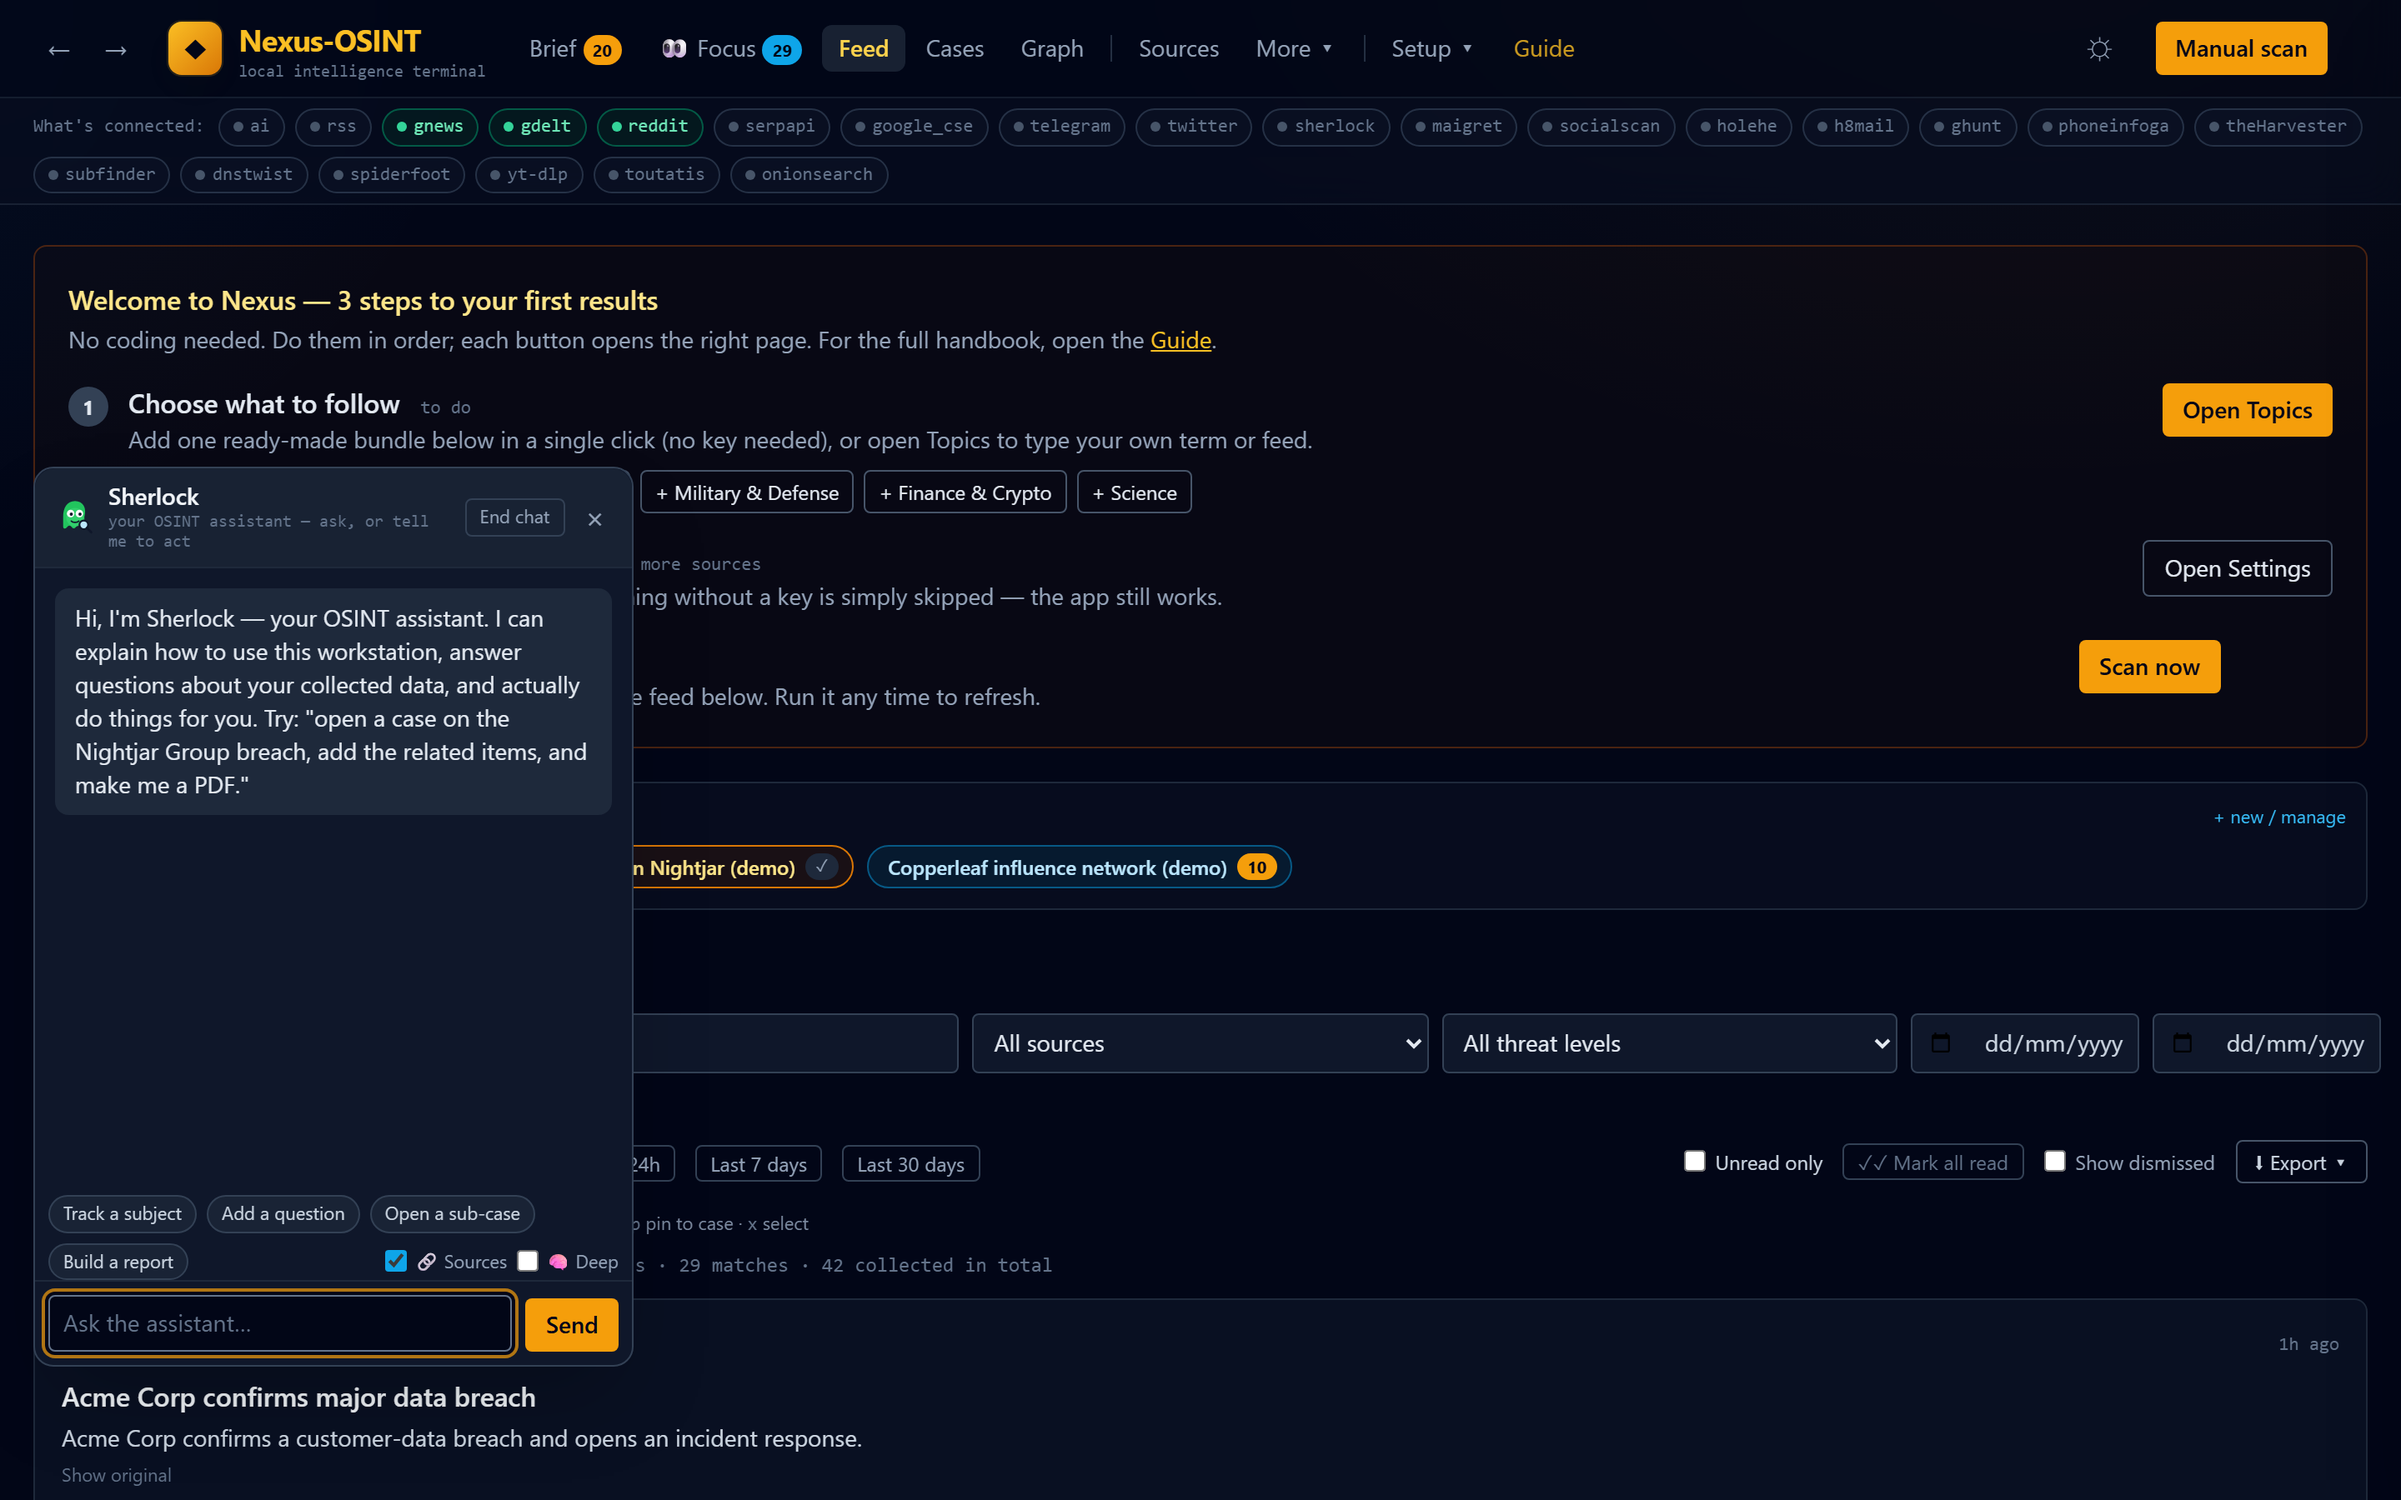
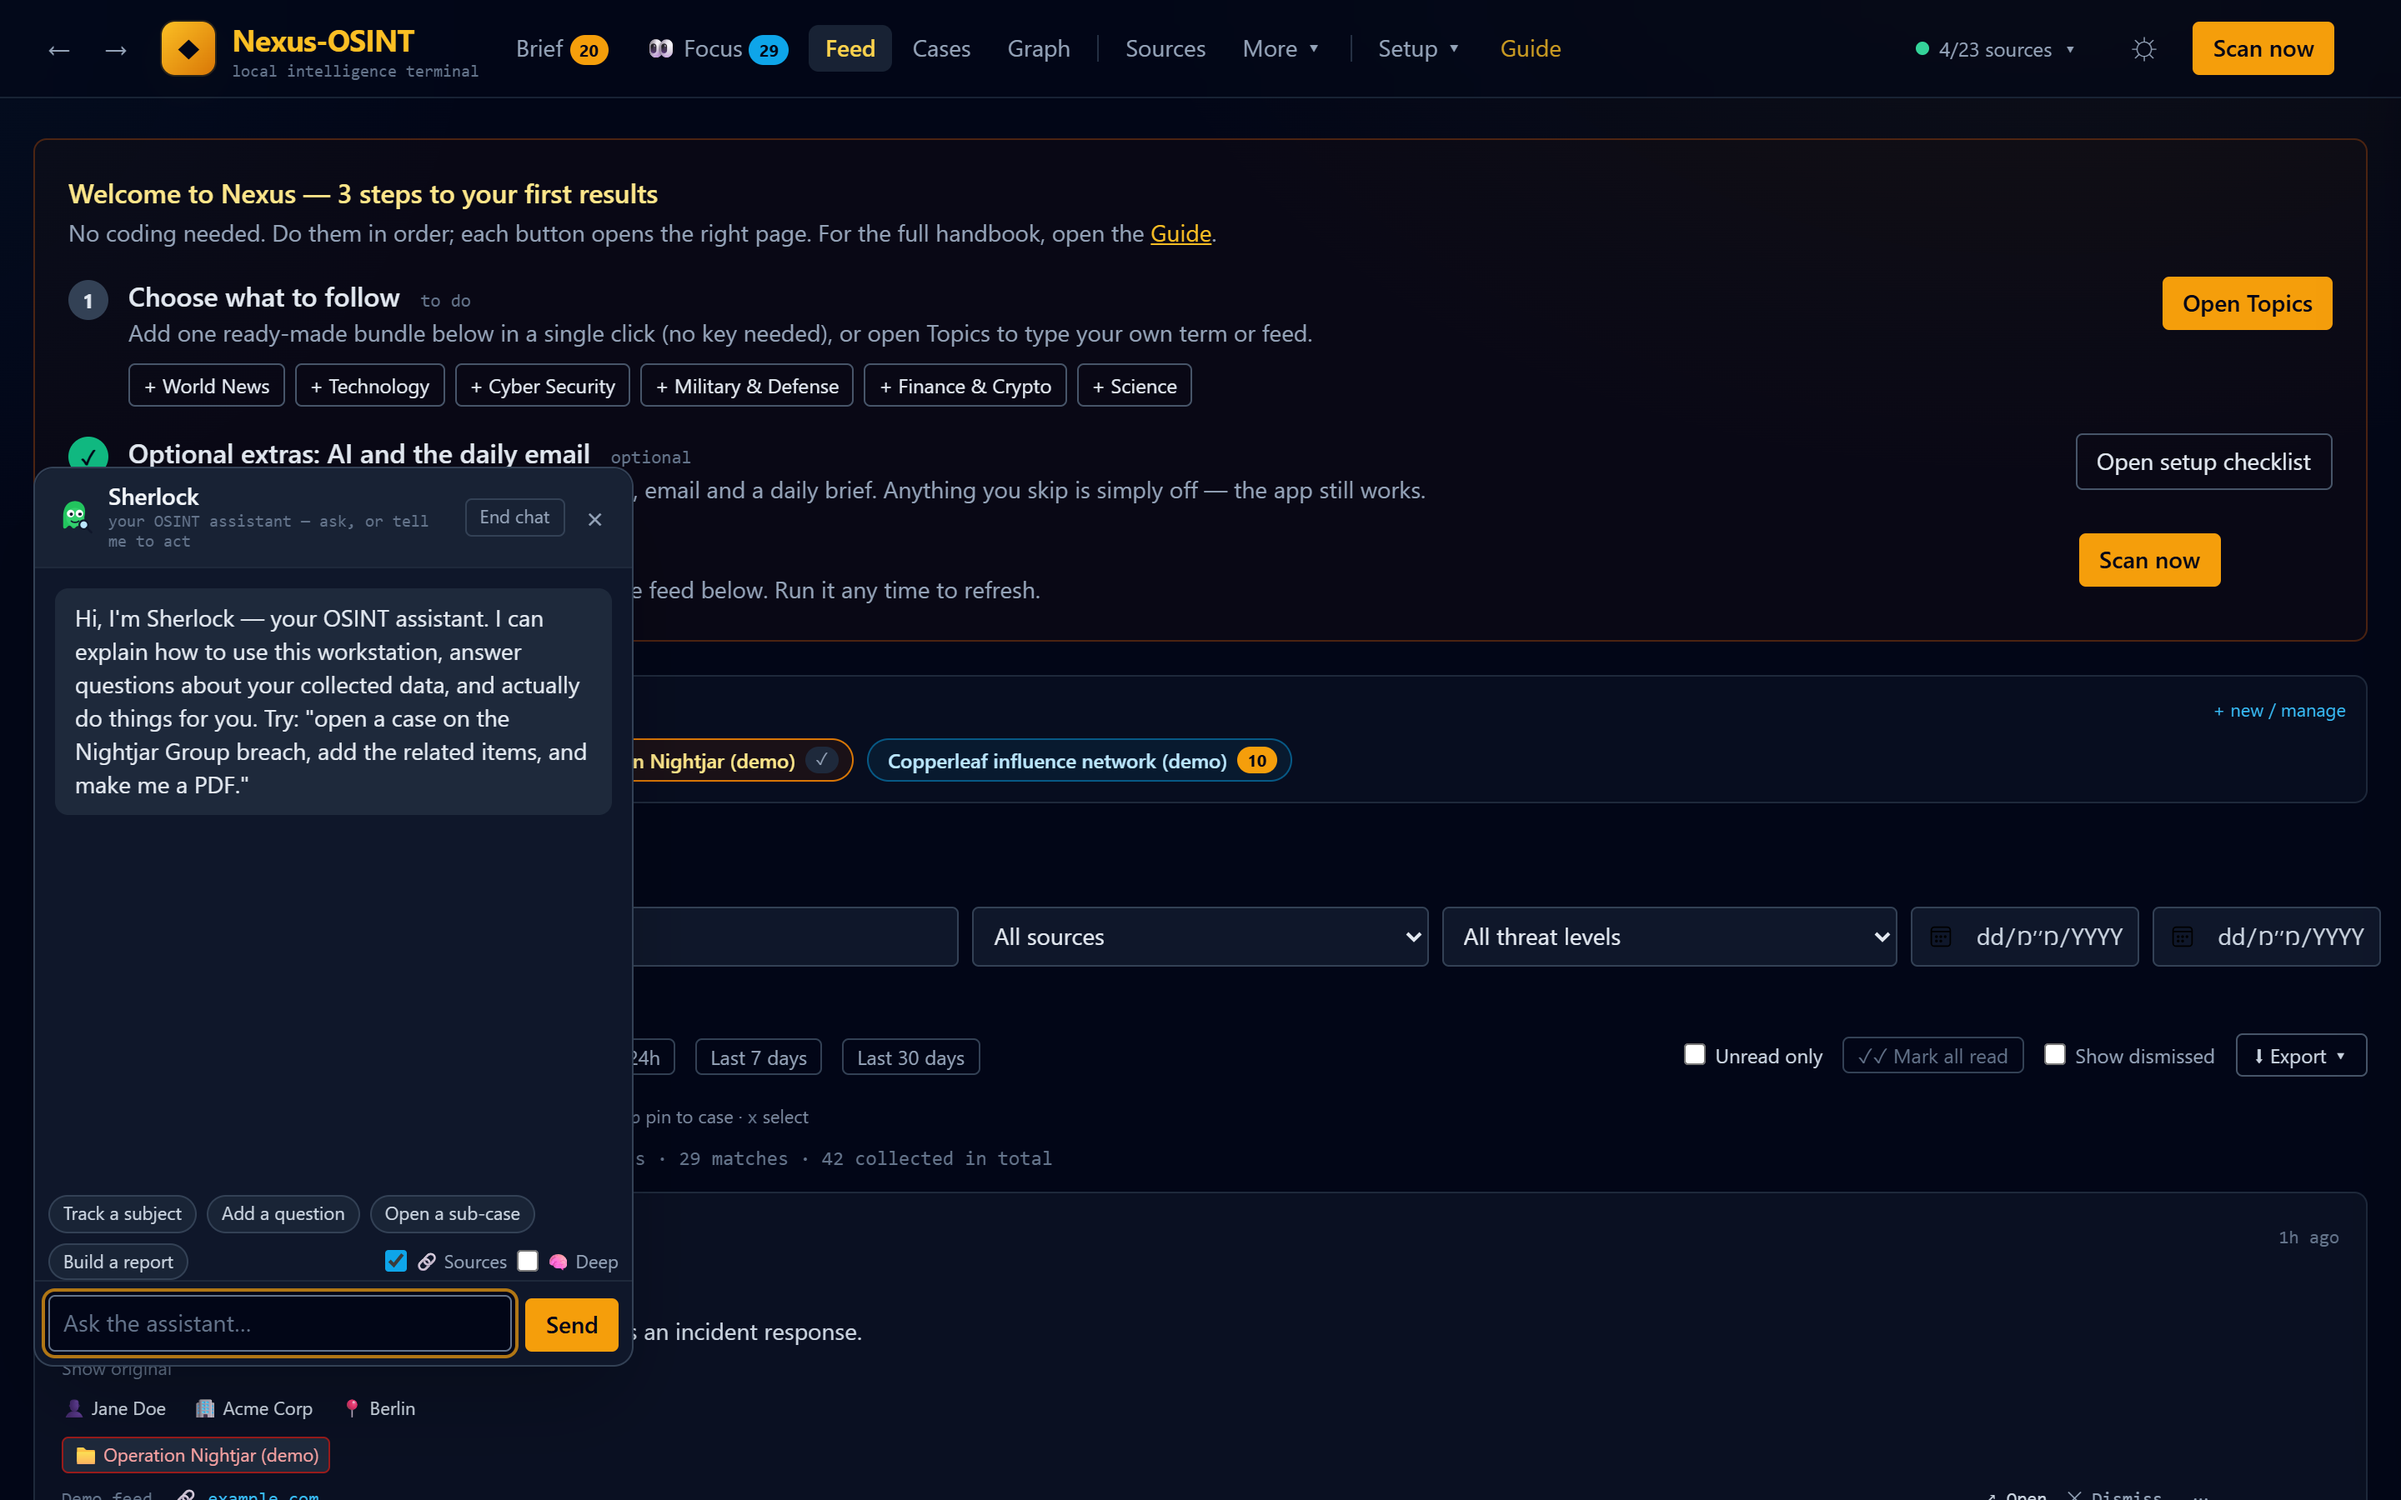
docs: re-capture README screenshots on the redesigned UI; add Setup
- All README screenshots re-captured from the fictional demo dataset on the
  v1.2 interface (calmer header, simpler cards, collapsible tracking words).
- New Setup checklist screenshot and a short tour entry for it.
- Brief page: the Scan now button no longer wraps the navigation onto two
  lines (no icon, nowrap, short scanning indicator).
- capture_screenshots.py falls back to the system Edge when Playwright's
  Chromium is not installed.

Assisted-by: Claude Code

diff --git a/nexus/web/templates/brief.html b/nexus/web/templates/brief.html
@@ -6,9 +6,10 @@
   <button hx-post="/scan" hx-swap="none"
           hx-indicator="#brief-spin"
           hx-on::after-request="window.location.href='/brief'"
-          class="px-3 py-1.5 rounded bg-amber-500 hover:bg-amber-400 text-slate-950 text-sm font-semibold">
-    &#128260; Scan now</button>
-  <span id="brief-spin" class="htmx-indicator mono text-xs text-amber-400">scanning&hellip; this can take a minute or two</span>
+          title="Collect from every source (can take a minute or two)"
+          class="px-3 py-1.5 rounded bg-amber-500 hover:bg-amber-400 text-slate-950 text-sm font-semibold whitespace-nowrap">
+    Scan now</button>
+  <span id="brief-spin" class="htmx-indicator mono text-xs text-amber-400">scanning&hellip;</span>
 {% endblock %}
 {% block content %}
 <section class="space-y-5">

diff --git a/scripts/capture_screenshots.py b/scripts/capture_screenshots.py
@@ -40,7 +40,10 @@ def _shot(page: Page, name: str) -> None:
 
 def capture(base: str) -> None:
     with sync_playwright() as p:
-        browser = p.chromium.launch()
+        try:
+            browser = p.chromium.launch()
+        except Exception:  # Playwright's Chromium not installed: use the system Edge
+            browser = p.chromium.launch(channel="msedge")
         page = browser.new_page(viewport=VIEWPORT, device_scale_factor=2)
 
         # Feed: scroll past the onboarding card to the analysed items.
@@ -64,6 +67,7 @@ def capture(base: str) -> None:
             ("timeline", "/cases/1?tab=timeline", 1200),
             ("entity", "/entity?name=Nightjar%20Group", 1200),
             ("settings", "/settings", 800),
+            ("setup", "/setup", 800),
         ):
             _open(page, f"{base}{path}", wait)
             _shot(page, name)

diff --git a/README.md b/README.md
@@ -191,7 +191,15 @@ reach the network. Collected text is untrusted input, so the assistant's output
 is rendered as text, never HTML: a prompt injection hidden in a scraped post
 cannot become script execution in your browser.
 
-#### 8. Settings that explain themselves
+#### 8. A setup checklist, and settings that explain themselves
+
+<img src="docs/media/setup.png" alt="Setup checklist: five steps with live status (sources, AI, email, daily brief, daily case reports) and the daily-brief scheduling card" width="100%">
+
+**Setup** walks through five short steps, each with a live status and one button:
+sources (several work with no keys), an optional AI provider, the email
+connection, the daily brief (on/off, local time, "scan first", a test send and
+when it last went out / goes out next) and per-case daily reports. Only the
+first step is needed to start collecting.
 
 <img src="docs/media/settings.png" alt="Settings page: AI provider choice, key editor showing set / not set only, and source configuration" width="100%">
 

diff --git a/CHANGELOG.md b/CHANGELOG.md
@@ -35,6 +35,10 @@ that makes configuring sources, AI, email and the daily brief straightforward.
 - Per-case daily reports can be switched on from the Setup page, and each
   case's Reports tab shows the next and last report and whether it is emailed.
 - The README demo video now shows the redesigned interface.
+- README screenshots re-captured on the redesigned interface, plus the Setup checklist.
+
+### Fixed
+- The Brief page's Scan now button no longer wraps the navigation onto two lines.
 
 ## [1.1.0] - 2026-10-17
 
